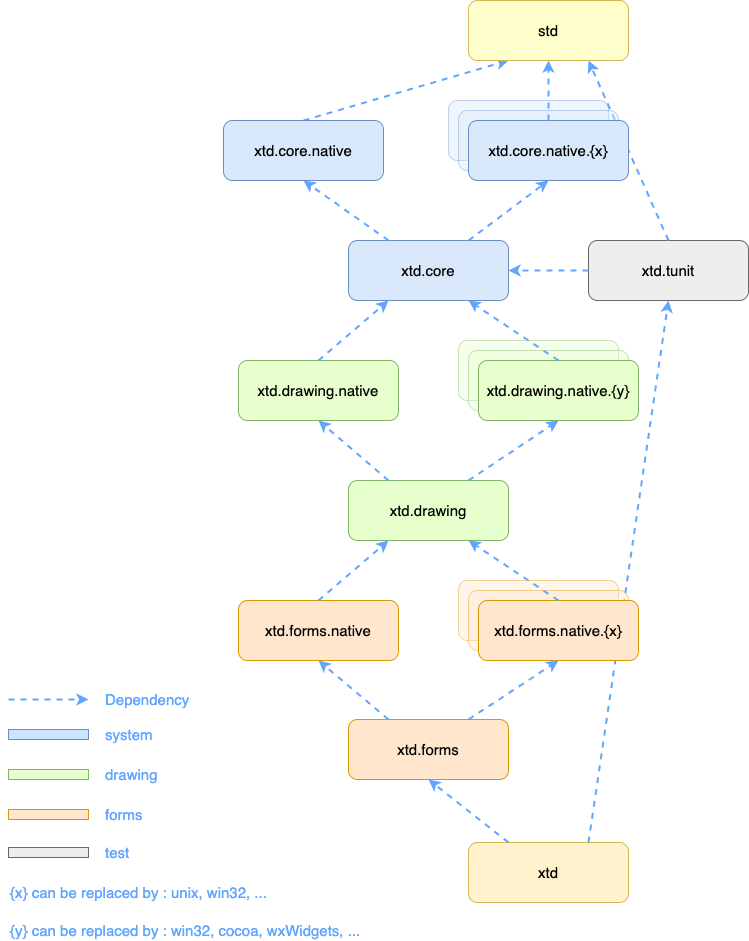
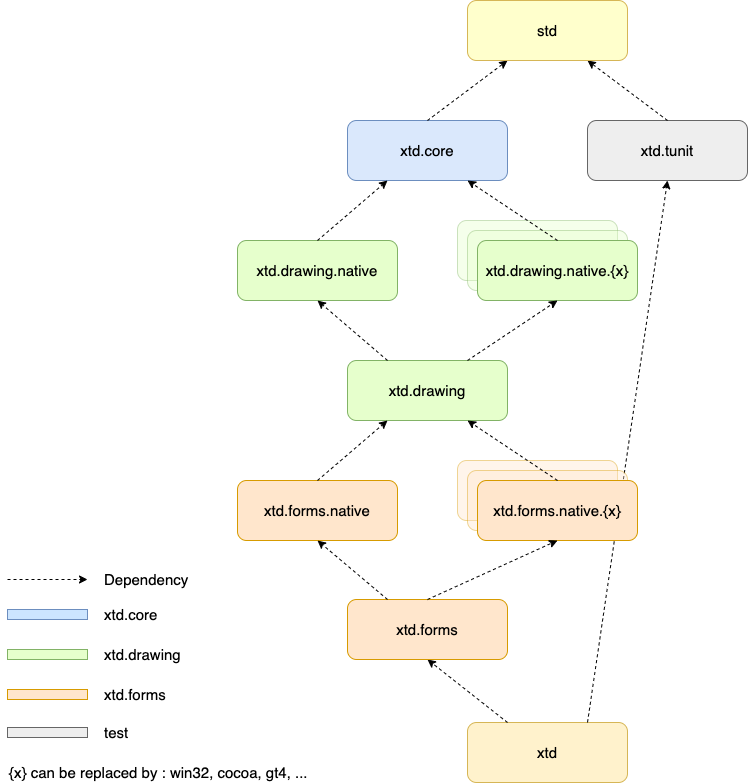
Add documentations

diff --git a/README.md b/README.md
@@ -25,24 +25,24 @@
 
 [![architecture_logo](https://github.com/gammasoft71/xtd/blob/master/docs/pictures/block_diagram_onion.png)](https://github.com/gammasoft71/xtd/blob/master/docs/hierarchy.md)
 
-xtd is composed of several libraries grouped by package.
+xtd is composed of several libraries.
 
-### system
+### xtd.core
 
 [![core](https://github.com/gammasoft71/xtd/blob/master/docs/pictures/xtd.core.png)](https://codedocs.xyz/gammasoft71/xtd/group__xtd__core.html)
 The [xtd.core](https://codedocs.xyz/gammasoft71/xtd/group__xtd__core.html) library is modern C++17/20 libraries of classes, interfaces, and value types that provide access to system functionality. It is the foundation on which c++ applications, components, and controls are built.
 
-### drawing
+### xtd.drawing
 
 [![drawing](https://github.com/gammasoft71/xtd/blob/master/docs/pictures/xtd.drawing.png)](https://codedocs.xyz/gammasoft71/xtd/group__xtd__drawing.html)
 The [xtd.drawing](https://codedocs.xyz/gammasoft71/xtd/group__xtd__drawing.html) library contains types that support basic GDI+ graphics functionality. Child namespaces support advanced two-dimensional and vector graphics functionality, advanced imaging functionality, and print-related and typographical services. A child namespace also contains types that extend design-time user-interface logic and drawing.
 
-### forms
+### xtd.forms
 
 [![forms](https://github.com/gammasoft71/xtd/blob/master/docs/pictures/xtd.forms.png)](https://codedocs.xyz/gammasoft71/xtd/group__xtd__forms.html)
 The [xtd.forms](https://codedocs.xyz/gammasoft71/xtd/group__xtd__forms.html) library contains classes for creating Windows-based applications that take full advantage of the rich user interface features available in the Microsoft Windows, Apple macOS and linux base operating system.
 
-### tunit
+### xtd.tunit
 
 [![tunit](https://github.com/gammasoft71/xtd/blob/master/docs/pictures/xtd.tunit.png)](https://codedocs.xyz/gammasoft71/xtd/group__xtd__tunit.html)
 The [xtd.tunit](https://codedocs.xyz/gammasoft71/xtd/group__xtd__tunit.html) library is a unit-testing framework for modern C++17/20, inspired by [Microsoft.VisualStudio.TestTools.Cpp](https://docs.microsoft.com/en-us/visualstudio/test/microsoft-visualstudio-testtools-cppunittestframework-api-reference).

diff --git a/docs/architecture.md b/docs/architecture.md
@@ -4,24 +4,24 @@
 
 [![libraries_img](pictures/block_diagram_onion.png)](hierarchy.md)
 
-xtd is composed of several libraries grouped by package.
+xtd is composed of several libraries.
 
-## system
+## xtd.core
 
 [![core](https://github.com/gammasoft71/xtd/blob/master/docs/pictures/xtd.core.png)](https://codedocs.xyz/gammasoft71/xtd/group__xtd__core.html)
 The [xtd.core](https://codedocs.xyz/gammasoft71/xtd/group__xtd__core.html) library is modern C++17/20 libraries of classes, interfaces, and value types that provide access to system functionality. It is the foundation on which c++ applications, components, and controls are built.
 
-## drawing
+## xtd.drawing
 
 [![drawing](https://github.com/gammasoft71/xtd/blob/master/docs/pictures/xtd.drawing.png)](https://codedocs.xyz/gammasoft71/xtd/group__xtd__drawing.html)
 The [xtd.drawing](https://codedocs.xyz/gammasoft71/xtd/group__xtd__drawing.html) library contains types that support basic GDI+ graphics functionality. Child namespaces support advanced two-dimensional and vector graphics functionality, advanced imaging functionality, and print-related and typographical services. A child namespace also contains types that extend design-time user-interface logic and drawing.
 
-## forms
+## xtd.forms
 
 [![forms](https://github.com/gammasoft71/xtd/blob/master/docs/pictures/xtd.forms.png)](https://codedocs.xyz/gammasoft71/xtd/group__xtd__forms.html)
 The [xtd.forms](https://codedocs.xyz/gammasoft71/xtd/group__xtd__forms.html) library contains classes for creating Windows-based applications that take full advantage of the rich user interface features available in the Microsoft Windows, Apple macOS and linux base operating system.
 
-## tunit
+## xtd.tunit
 
 [![tunit](https://github.com/gammasoft71/xtd/blob/master/docs/pictures/xtd.tunit.png)](https://codedocs.xyz/gammasoft71/xtd/group__xtd__tunit.html)
 The [xtd.tunit](https://codedocs.xyz/gammasoft71/xtd/group__xtd__tunit.html) library is a unit-testing framework for modern C++17/20, inspired by [Microsoft.VisualStudio.TestTools.Cpp](https://docs.microsoft.com/en-us/visualstudio/test/microsoft-visualstudio-testtools-cppunittestframework-api-reference).

diff --git a/docs/hierarchy.md b/docs/hierarchy.md
@@ -4,24 +4,24 @@
 
 [![libraries_img](pictures/hierarchy.png)](architecture.md)
 
-xtd is composed of several libraries grouped by package.
+xtd is composed of several libraries.
 
-## system
+## xtd.core
 
 [![core](https://github.com/gammasoft71/xtd/blob/master/docs/pictures/xtd.core.png)](https://codedocs.xyz/gammasoft71/xtd/group__xtd__core.html)
 The [xtd.core](https://codedocs.xyz/gammasoft71/xtd/group__xtd__core.html) library is modern C++17/20 libraries of classes, interfaces, and value types that provide access to system functionality. It is the foundation on which c++ applications, components, and controls are built.
 
-## drawing
+## xtd.drawing
 
 [![drawing](https://github.com/gammasoft71/xtd/blob/master/docs/pictures/xtd.drawing.png)](https://codedocs.xyz/gammasoft71/xtd/group__xtd__drawing.html)
 The [xtd.drawing](https://codedocs.xyz/gammasoft71/xtd/group__xtd__drawing.html) library contains types that support basic GDI+ graphics functionality. Child namespaces support advanced two-dimensional and vector graphics functionality, advanced imaging functionality, and print-related and typographical services. A child namespace also contains types that extend design-time user-interface logic and drawing.
 
-## forms
+## xtd.forms
 
 [![forms](https://github.com/gammasoft71/xtd/blob/master/docs/pictures/xtd.forms.png)](https://codedocs.xyz/gammasoft71/xtd/group__xtd__forms.html)
 The [xtd.forms](https://codedocs.xyz/gammasoft71/xtd/group__xtd__forms.html) library contains classes for creating Windows-based applications that take full advantage of the rich user interface features available in the Microsoft Windows, Apple macOS and linux base operating system.
 
-## tunit
+## xtd.tunit
 
 [![tunit](https://github.com/gammasoft71/xtd/blob/master/docs/pictures/xtd.tunit.png)](https://codedocs.xyz/gammasoft71/xtd/group__xtd__tunit.html)
 The [xtd.tunit](https://codedocs.xyz/gammasoft71/xtd/group__xtd__tunit.html) library is a unit-testing framework for modern C++17/20, inspired by [Microsoft.VisualStudio.TestTools.Cpp](https://docs.microsoft.com/en-us/visualstudio/test/microsoft-visualstudio-testtools-cppunittestframework-api-reference).

diff --git a/docs/examples.md b/docs/examples.md
@@ -181,7 +181,7 @@ Test results:
 End 2 tests from 1 test case ran. (0 ms total)
 ```
 
-Click [here](../examples/README.md) to see more [examples](../examples/README.md) grouped by package about xtd:
+Click [here](../examples/README.md) to see more [examples](../examples/README.md) about xtd:
 * [xtd.core](https://github.com/gammasoft71/xtd/blob/master/examples/xtd.core.examples/README.md)
 * [xtd.drawing](https://github.com/gammasoft71/xtd/blob/master/examples/xtd.drawing.examples/README.md)
 * [xtd.forms](https://github.com/gammasoft71/xtd/blob/master/examples/xtd.forms.examples/README.md)
